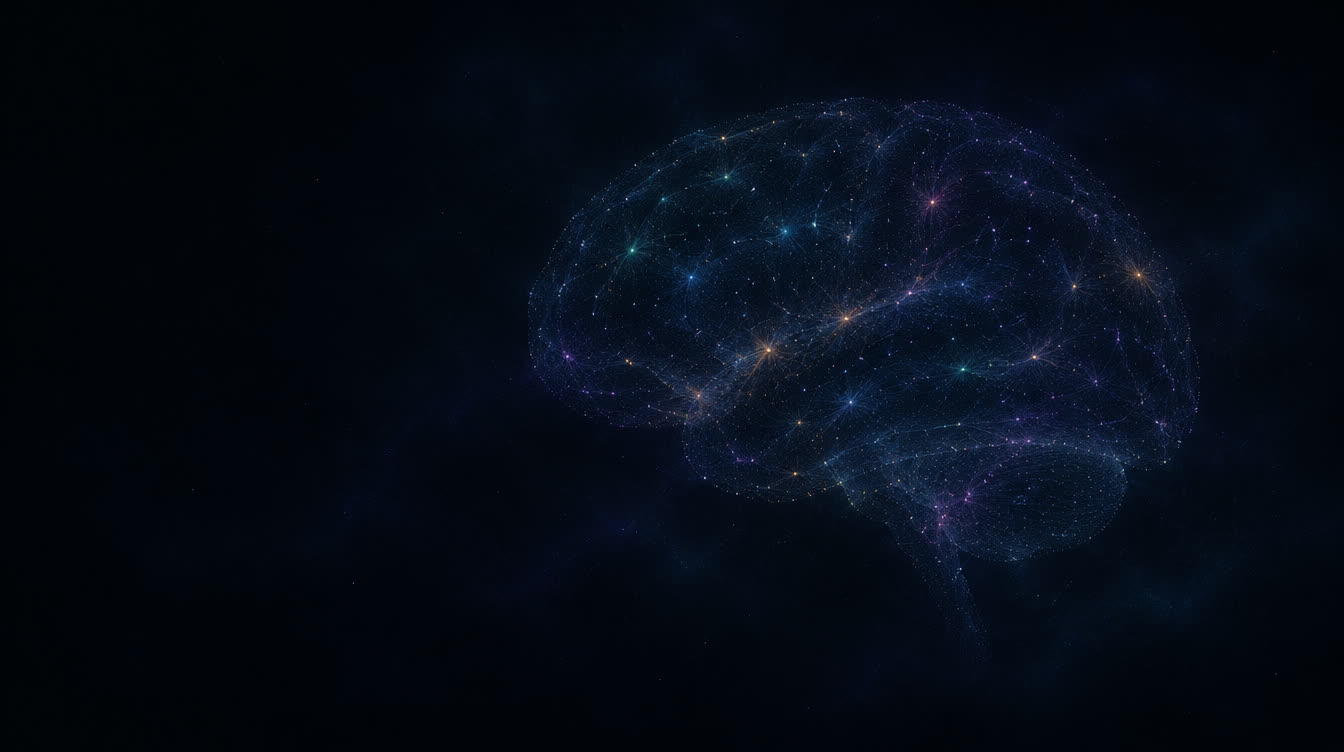
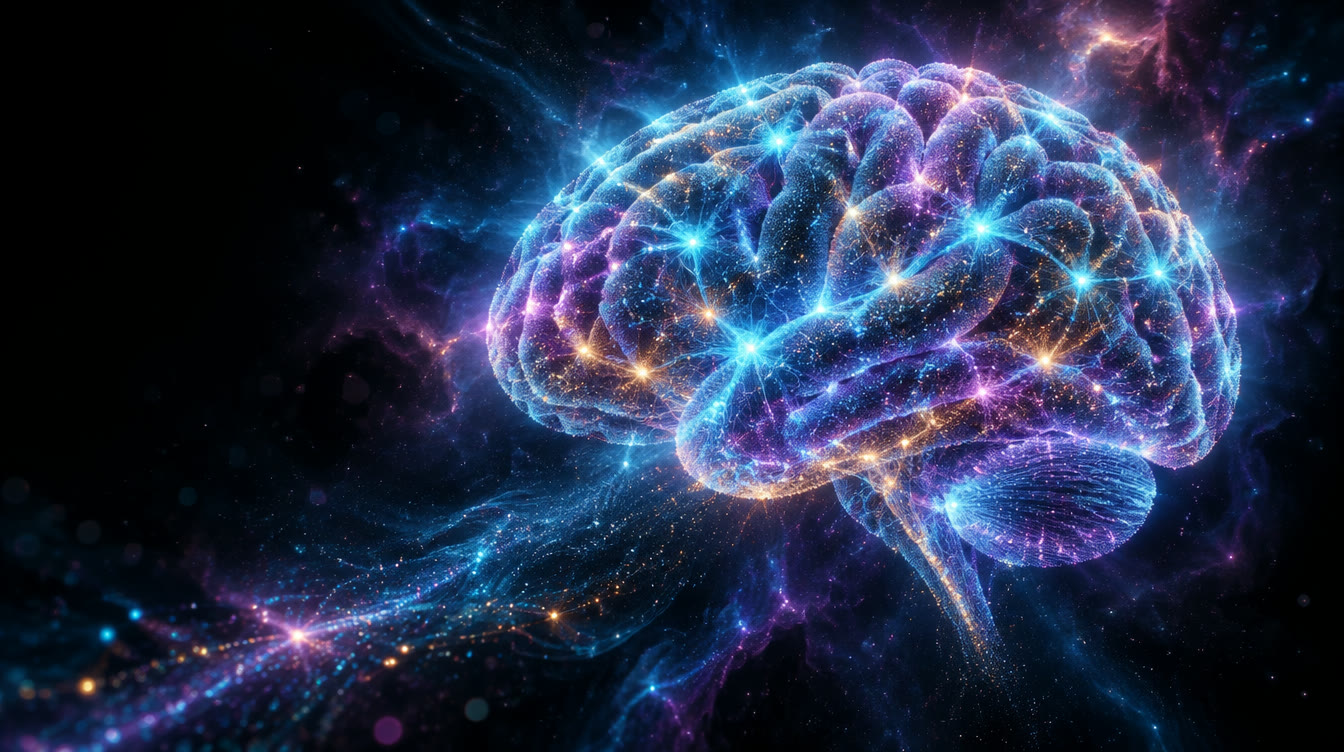
Richer admin backdrop with depth
New brain-nebula image, a star layer, slow light clouds, and parallax:
the scene follows the graph camera, far layers moving less than near ones.

diff --git a/assets/admin.js b/assets/admin.js
@@ -55,6 +55,7 @@ class Graph {
     this.hover = null;
     this.selected = null;
     this.focus = null; // Set of node keys to keep bright, or null for all
+    this.onCamera = () => {};
     this.onHover = () => {};
     this.onSelect = () => {};
     this.pointer = { down: false, moved: false, node: null, x: 0, y: 0 };
@@ -238,6 +239,7 @@ class Graph {
     if (this.alpha > 0.02) this.tick();
 
     const ctx = this.ctx, { x, y, k } = this.view;
+    this.onCamera(x, y, k);
     ctx.setTransform(this.ratio, 0, 0, this.ratio, 0, 0);
     ctx.clearRect(0, 0, this.width, this.height);
     if (!this.nodes.length) return;
@@ -590,9 +592,63 @@ function decorativeGraph() {
   return { nodes, links };
 }
 
+/* ---------- Scene ---------- */
+
+/* Stars are drawn once; CSS moves and twinkles the layer. */
+function drawStars() {
+  const canvas = $("stars");
+  const ratio = Math.min(window.devicePixelRatio || 1, 2);
+  const width = window.innerWidth * 1.08, height = window.innerHeight * 1.08;
+  canvas.width = Math.round(width * ratio);
+  canvas.height = Math.round(height * ratio);
+  const ctx = canvas.getContext("2d");
+  ctx.setTransform(ratio, 0, 0, ratio, 0, 0);
+  const tints = ["#ffffff", "#cfe2ff", "#b9c8ff", "#ffe9c4", "#d9c2ff"];
+  // A fixed seed keeps the sky the same on every visit.
+  let seed = 1337;
+  const random = () => { seed = (seed * 1664525 + 1013904223) >>> 0; return seed / 4294967296; };
+  const count = Math.round((width * height) / 5200);
+  for (let i = 0; i < count; i++) {
+    const depth = random();
+    const radius = depth > 0.97 ? 1.5 + random() * 0.9 : 0.35 + depth * 0.75;
+    const px = random() * width, py = random() * height;
+    ctx.globalAlpha = 0.25 + depth * 0.6;
+    ctx.fillStyle = tints[Math.floor(random() * tints.length)];
+    ctx.beginPath(); ctx.arc(px, py, radius, 0, Math.PI * 2); ctx.fill();
+    if (radius > 1.5) {
+      const halo = ctx.createRadialGradient(px, py, 0, px, py, radius * 6);
+      halo.addColorStop(0, "rgba(190, 215, 255, 0.35)");
+      halo.addColorStop(1, "rgba(190, 215, 255, 0)");
+      ctx.globalAlpha = 0.6; ctx.fillStyle = halo;
+      ctx.beginPath(); ctx.arc(px, py, radius * 6, 0, Math.PI * 2); ctx.fill();
+    }
+  }
+}
+drawStars();
+window.addEventListener("resize", drawStars);
+
 /* ---------- App ---------- */
 
 const graph = new Graph($("graph"));
+
+/* The scene follows the camera: far layers move less than near ones. */
+{
+  const scene = document.querySelector(".scene");
+  let last = "";
+  graph.onCamera = (x, y, k) => {
+    if (REDUCED_MOTION) return;
+    const clamp = (v, limit) => Math.max(-limit, Math.min(limit, v));
+    const panX = clamp((x - window.innerWidth / 2) * 0.06, 46);
+    const panY = clamp((y - window.innerHeight / 2) * 0.06, 34);
+    const zoom = 1 + clamp(Math.log(k) * 0.03, 0.05);
+    const key = `${panX.toFixed(1)}|${panY.toFixed(1)}|${zoom.toFixed(3)}`;
+    if (key === last) return;
+    last = key;
+    scene.style.setProperty("--pan-x", panX.toFixed(1) + "px");
+    scene.style.setProperty("--pan-y", panY.toFixed(1) + "px");
+    scene.style.setProperty("--zoom", zoom.toFixed(3));
+  };
+}
 const state = {
   version: null, brain: null, colors: new Map(), counts: [], agents: [],
   agentColors: new Map(), lastAction: new Map(), feed: [], seen: new Set(),

diff --git a/assets/admin.css b/assets/admin.css
@@ -31,18 +31,60 @@ html, body {
 
 [hidden] { display: none !important; }
 
+/* The scene behind the graph: image, light clouds, stars, vignette. Each
+   layer follows the camera at its own speed (--pan-x/--pan-y, set from the
+   graph), which is what gives the page depth. */
+.scene { position: fixed; inset: 0; overflow: hidden; background: var(--bg); --pan-x: 0px; --pan-y: 0px; --zoom: 1; }
+.scene > * { position: absolute; }
 .backdrop {
-  position: fixed;
-  inset: 0;
-  background:
-    radial-gradient(ellipse 70% 60% at 58% 45%, rgba(4, 6, 12, 0) 0%, rgba(4, 6, 12, 0.55) 70%, rgba(4, 6, 12, 0.92) 100%),
-    url("/admin/backdrop.jpg") 58% 45% / cover no-repeat,
-    var(--bg);
-  animation: breathe 14s ease-in-out infinite alternate;
+  inset: -6%;
+  background: url("/admin/backdrop.jpg") 56% 46% / cover no-repeat;
+  transform: translate(calc(var(--pan-x) * 0.35), calc(var(--pan-y) * 0.35)) scale(var(--zoom));
+  animation: breathe 16s ease-in-out infinite alternate;
+  will-change: transform, filter;
 }
 @keyframes breathe {
-  from { filter: brightness(0.9) saturate(1); }
-  to { filter: brightness(1.12) saturate(1.2); }
+  from { filter: brightness(0.36) saturate(1.05); }
+  to { filter: brightness(0.5) saturate(1.25); }
+}
+.aurora {
+  width: 60vmax; height: 60vmax; border-radius: 50%;
+  filter: blur(90px); mix-blend-mode: screen; opacity: 0.5;
+  will-change: transform;
+}
+.aurora.one {
+  left: 34%; top: -22%;
+  background: radial-gradient(circle, rgba(64, 120, 255, 0.34), rgba(64, 120, 255, 0) 62%);
+  animation: drift-one 38s ease-in-out infinite alternate;
+}
+.aurora.two {
+  left: 48%; top: 34%;
+  background: radial-gradient(circle, rgba(170, 90, 255, 0.26), rgba(170, 90, 255, 0) 60%);
+  animation: drift-two 46s ease-in-out infinite alternate;
+}
+@keyframes drift-one {
+  from { transform: translate(-6%, 0) scale(1); }
+  to { transform: translate(10%, 12%) scale(1.18); }
+}
+@keyframes drift-two {
+  from { transform: translate(4%, 6%) scale(1.1); }
+  to { transform: translate(-12%, -8%) scale(0.92); }
+}
+.stars {
+  inset: -4%; width: 108%; height: 108%;
+  transform: translate(calc(var(--pan-x) * 0.8), calc(var(--pan-y) * 0.8));
+  animation: twinkle 7s ease-in-out infinite alternate;
+  will-change: transform, opacity;
+}
+@keyframes twinkle {
+  from { opacity: 0.55; }
+  to { opacity: 1; }
+}
+.vignette {
+  inset: 0;
+  background:
+    radial-gradient(ellipse 62% 58% at 56% 47%, rgba(3, 5, 11, 0) 0%, rgba(3, 5, 11, 0.5) 68%, rgba(3, 5, 11, 0.93) 100%),
+    linear-gradient(90deg, rgba(3, 5, 11, 0.72) 0%, rgba(3, 5, 11, 0) 26%, rgba(3, 5, 11, 0) 78%, rgba(3, 5, 11, 0.6) 100%);
 }
 
 #graph {
@@ -419,5 +461,5 @@ input:focus-visible, button:focus-visible, [tabindex]:focus-visible {
 }
 
 @media (prefers-reduced-motion: reduce) {
-  .backdrop, .live i, .avatar.online::after, .feed-list li.fresh, .agents li.flash, .stat.bump b { animation: none; }
+  .backdrop, .aurora, .stars, .live i, .avatar.online::after, .feed-list li.fresh, .agents li.flash, .stat.bump b { animation: none; }
 }

diff --git a/assets/admin.html b/assets/admin.html
@@ -10,7 +10,13 @@
 <link rel="stylesheet" href="/admin/app.css">
 </head>
 <body>
-<div class="backdrop" aria-hidden="true"></div>
+<div class="scene" aria-hidden="true">
+  <div class="backdrop"></div>
+  <div class="aurora one"></div>
+  <div class="aurora two"></div>
+  <canvas id="stars" class="stars"></canvas>
+  <div class="vignette"></div>
+</div>
 <canvas id="graph" aria-label="Memory graph"></canvas>
 
 <section id="login" class="login" hidden>
